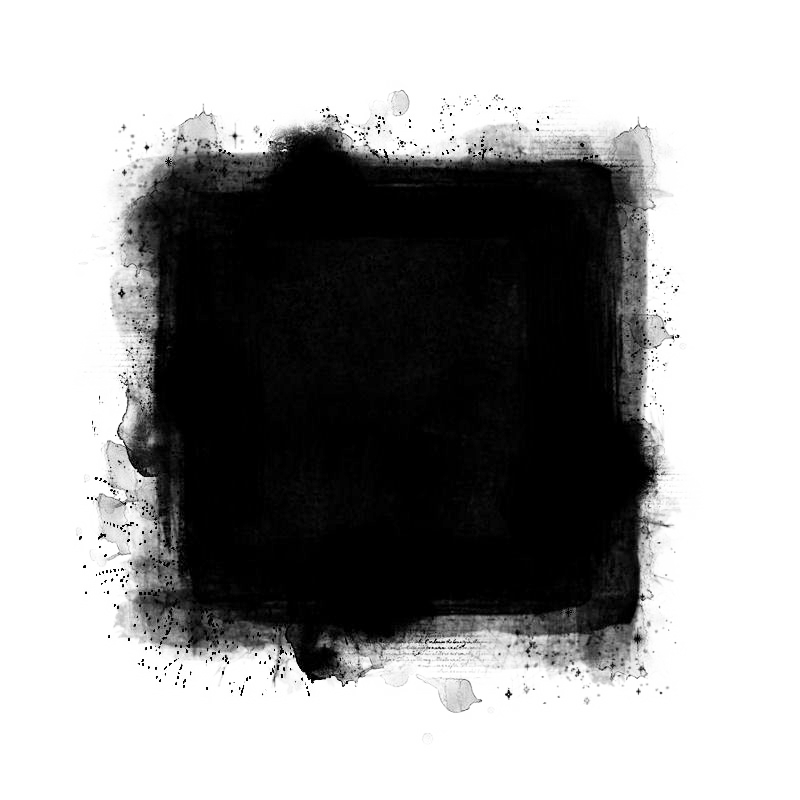
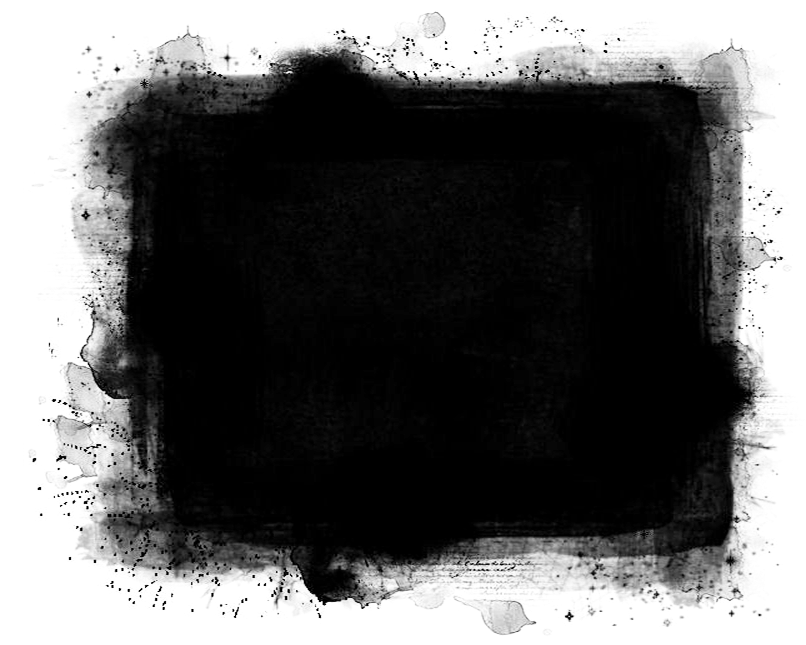
Changed the rotation function to a flipping one. Added images in avif format for better sizing and loading.

diff --git a/src/components/Ornaments.jsx b/src/components/Ornaments.jsx
@@ -1,0 +1,64 @@
+export default function Ornaments() {
+  return (
+    <div className="bg-red-400">
+      <svg
+        width="1600"
+        height="500"
+        viewBox="0 0 1600 500"
+        xmlns="http://www.w3.org/2000/svg"
+      >
+        <g
+          opacity="0.55"
+          stroke="#C79B6B"
+          stroke-width="1.5"
+          stroke-linecap="round"
+          stroke-linejoin="round"
+        >
+          <g transform="translate(70,430)">
+            <path d="M0 0 C40 -40, 50 -110, 20 -180" />
+            <path d="M0 0 C70 -10, 120 -40, 170 -80" />
+            <path d="M20 -20 C60 -50, 90 -100, 80 -160" />
+
+            <path d="M18 -30 C10 -42, 16 -55, 28 -48 C32 -40, 28 -32, 18 -30Z" />
+            <path d="M32 -58 C22 -68, 28 -82, 42 -76 C46 -64, 42 -56, 32 -58Z" />
+            <path d="M35 -92 C24 -104, 32 -118, 46 -112 C50 -100, 46 -90, 35 -92Z" />
+            <path d="M30 -128 C20 -138, 28 -152, 42 -148 C46 -136, 42 -126, 30 -128Z" />
+
+            <path d="M62 -28 C70 -40, 86 -42, 90 -28 C82 -18, 70 -18, 62 -28Z" />
+            <path d="M96 -44 C106 -54, 122 -54, 126 -40 C118 -30, 104 -30, 96 -44Z" />
+            <path d="M128 -60 C138 -70, 154 -70, 160 -56 C150 -46, 138 -46, 128 -60Z" />
+
+            <path d="M56 -76 C48 -88, 56 -102, 70 -96 C74 -84, 68 -74, 56 -76Z" />
+            <path d="M68 -114 C58 -124, 64 -138, 78 -132 C82 -120, 76 -112, 68 -114Z" />
+
+            <circle cx="18" cy="-180" r="3" />
+            <circle cx="82" cy="-160" r="3" />
+            <circle cx="170" cy="-80" r="3" />
+          </g>
+
+          <g transform="translate(1530,430) scale(-1,1)">
+            <path d="M0 0 C40 -40, 50 -110, 20 -180" />
+            <path d="M0 0 C70 -10, 120 -40, 170 -80" />
+            <path d="M20 -20 C60 -50, 90 -100, 80 -160" />
+
+            <path d="M18 -30 C10 -42, 16 -55, 28 -48 C32 -40, 28 -32, 18 -30Z" />
+            <path d="M32 -58 C22 -68, 28 -82, 42 -76 C46 -64, 42 -56, 32 -58Z" />
+            <path d="M35 -92 C24 -104, 32 -118, 46 -112 C50 -100, 46 -90, 35 -92Z" />
+            <path d="M30 -128 C20 -138, 28 -152, 42 -148 C46 -136, 42 -126, 30 -128Z" />
+
+            <path d="M62 -28 C70 -40, 86 -42, 90 -28 C82 -18, 70 -18, 62 -28Z" />
+            <path d="M96 -44 C106 -54, 122 -54, 126 -40 C118 -30, 104 -30, 96 -44Z" />
+            <path d="M128 -60 C138 -70, 154 -70, 160 -56 C150 -46, 138 -46, 128 -60Z" />
+
+            <path d="M56 -76 C48 -88, 56 -102, 70 -96 C74 -84, 68 -74, 56 -76Z" />
+            <path d="M68 -114 C58 -124, 64 -138, 78 -132 C82 -120, 76 -112, 68 -114Z" />
+
+            <circle cx="18" cy="-180" r="3" />
+            <circle cx="82" cy="-160" r="3" />
+            <circle cx="170" cy="-80" r="3" />
+          </g>
+        </g>
+      </svg>
+    </div>
+  );
+}

diff --git a/src/components/Welcome.tsx b/src/components/Welcome.tsx
@@ -6,17 +6,17 @@ import Toolbar from "./Toolbar.tsx";
 import Ornaments from "./Ornaments.jsx";
 
 const authorImages: Record<string, string> = {
-  dostoevsky: "dostoevsky.jpg",
-  nietzsche: "nietzsche.jpg",
-  shakespeare: "shakespeare.jpg",
-  aristotle: "aristotle.jpg",
-  confucius: "confucius.jpg",
-  einstein: "einstein.jpg",
-  huxley: "huxley.jpg",
-  orwell: "orwell.jpg",
-  plato: "plato.jpg",
-  socrates: "socrates.jpg",
-  tolstoy: "tolstoy.jpg",
+  dostoevsky: "dostoevsky.avif",
+  nietzsche: "nietzsche.avif",
+  shakespeare: "shakespeare.avif",
+  aristotle: "aristotle.avif",
+  confucius: "confucius.avif",
+  einstein: "einstein.avif",
+  huxley: "huxley.avif",
+  orwell: "orwell.avif",
+  plato: "plato.avif",
+  socrates: "socrates.avif",
+  tolstoy: "tolstoy.avif",
 };
 
 const getAuthorImage = (author: string | undefined) => {
@@ -24,7 +24,7 @@ const getAuthorImage = (author: string | undefined) => {
   const matched = Object.keys(authorImages).find((name) =>
     authorLower.includes(name),
   );
-  return matched ? `/${authorImages[matched]}` : "/unknown.jpg";
+  return matched ? `/authors/${authorImages[matched]}` : "/unknown.jpg";
 };
 
 export default function Welcome() {
@@ -36,12 +36,18 @@ export default function Welcome() {
   const currentAuthorImage = getAuthorImage(quotes[currentIndex]?.author);
   const [currentImageSrc, setCurrentImageSrc] = useState(currentAuthorImage);
   const [isTransitioning, setIsTransitioning] = useState(false);
-  const [maskRotation, setMaskRotation] = useState(0);
+  const maskFlips = [
+    { mask: "", img: "" },
+    { mask: "scale-x-[-1]", img: "scale-x-[-1]" },
+    { mask: "scale-y-[-1]", img: "scale-y-[-1]" },
+    { mask: "scale-x-[-1] scale-y-[-1]", img: "scale-x-[-1] scale-y-[-1]" },
+  ];
+  const [flipIndex, setFlipIndex] = useState(0);
 
   useEffect(() => {
     if (currentAuthorImage !== currentImageSrc) {
       setIsTransitioning(true);
-      setMaskRotation([0, 90, 180, 270][Math.floor(Math.random() * 4)]);
+      setFlipIndex(Math.floor(Math.random() * 4));
       setTimeout(() => {
         setCurrentImageSrc(currentAuthorImage);
         setIsTransitioning(false);
@@ -134,17 +140,15 @@ export default function Welcome() {
       <main className="flex h-dvh w-dvw flex-col justify-center px-5 sm:px-16 md:px-28 lg:px-52 xl:px-96 2xl:px-120">
         <div className="relative flex h-2/3 flex-col justify-center gap-10 p-10">
           <div
-            className={`absolute inset-0 -z-10 overflow-hidden rounded-3xl p-4 transition-all duration-200 ${isAuthorHovered ? "" : "blur-2xl"}`}
+            className={`absolute inset-0 -z-10 overflow-hidden rounded-3xl p-4 transition-all duration-200 ${isAuthorHovered ? "" : "blur-3xl"}`}
           >
             <div
-              className="absolute inset-0 mask-[url(/mask.png)] mask-cover mask-center mask-no-repeat"
-              style={{ transform: `rotate(${maskRotation}deg)` }}
+              className={`absolute inset-0 mask-[url(/mask.png)] mask-cover mask-center mask-no-repeat ${maskFlips[flipIndex].mask}`}
             >
               <img
                 src={currentImageSrc}
                 alt={quotes[currentIndex]?.author || "Author"}
-                className={`h-full w-full object-cover transition-opacity duration-200 ${isTransitioning ? "opacity-0" : "opacity-100"}`}
-                style={{ transform: `rotate(-${maskRotation}deg)` }}
+                className={`h-full w-full object-cover transition-opacity duration-200 ${isTransitioning ? "opacity-0" : "opacity-100"} ${maskFlips[flipIndex].img}`}
               />
             </div>
           </div>